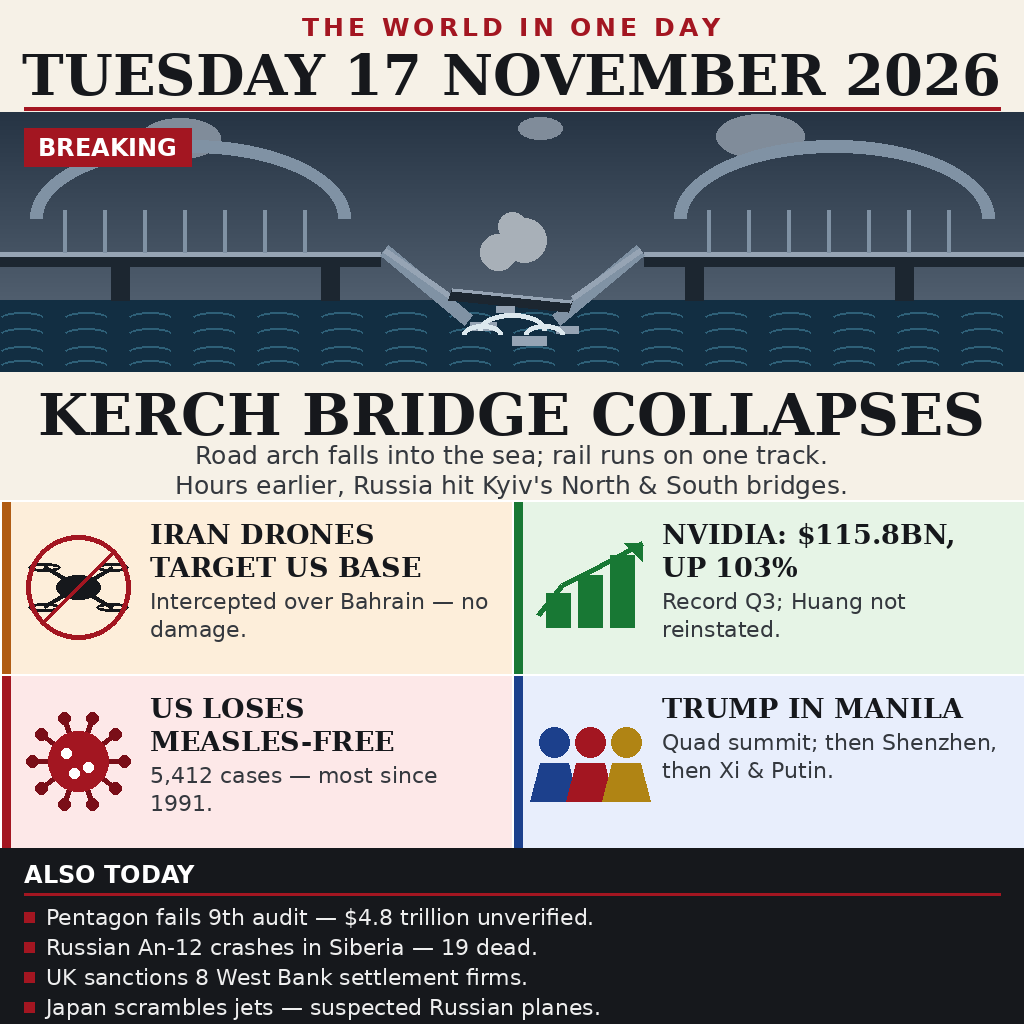
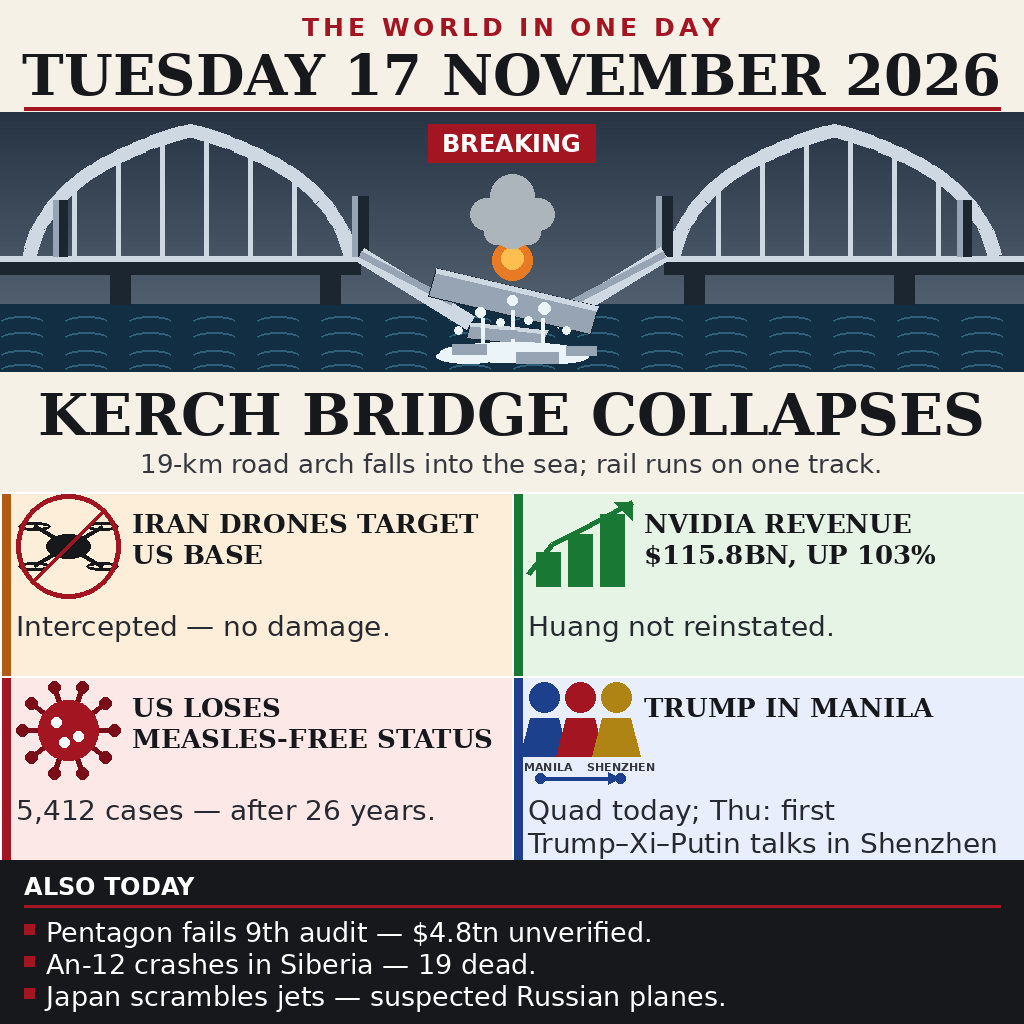
R2: redraw hero as collapsed bridge, legible subs, Trump rewrite
- Hero: tall pointed near-white arches (was shallow grey domes),
  end posts + piers + broken stub towers, wider gap, much bigger
  tilted falling deck fragment, foam + spray splash, one clear
  smoke plume, BREAKING centred over the gap (was hitting the arch)
- Panels: subs cut to one short line at 28px (was 22px, 2 lines);
  hero sub now one line incl. 19-km; Kyiv line dropped for words
- Trump: 'Quad today; Thu: first Trump-Xi-Putin talks in Shenzhen'
  + Manila->Shenzhen route arrow on the pictogram
- Nvidia headline now labels REVENUE; 'Record Q3' removed
- Measles sub now carries 'after 26 years'
- ALSO TODAY 4 -> 3 items (UK sanctions cut) at 27px
- Words ~99 -> 83

diff --git a/tools/render.py b/tools/render.py
@@ -1,12 +1,19 @@
 #!/usr/bin/env python3
 """Render the news-image-20261117 poster (1024x1024, deterministic, PIL only).
 
+R2 revision of the R1 poster ("The World in One Day", Tuesday 17 Nov 2026).
+Changes vs R1 (see BUILD-R2.md): hero redrawn (tall pointed white arches,
+towers/piers, much bigger falling deck + splash, one clear smoke plume,
+BREAKING moved over the gap); panel subs cut to one short line at 28px;
+Trump panel rewritten (Thu trilateral + Manila->Shenzhen route arrow);
+ALSO TODAY cut 4 -> 3 items at 27px; word count ~99 -> 83.
+
 Layout (1024x1024):
   masthead  0-112    "THE WORLD IN ONE DAY" + TUESDAY 17 NOVEMBER 2026
   hero img  112-372  procedural Kerch Bridge collapse scene
-  hero text 372-500  headline + 2 sub-caption lines
-  grid      500-848  2x2 story panels (Iran / Nvidia / Measles / Trump)
-  strip     848-1024 ALSO TODAY, 4 one-line items
+  hero text 372-492  headline + ONE sub-caption line (19-km)
+  grid      492-860  2x2 story panels (Iran / Nvidia / Measles / Trump)
+  strip     860-1024 ALSO TODAY, 3 one-line items
 
 All facts checked against RESEARCH.md. No randomness, no time, no network.
 """
@@ -26,7 +33,11 @@ SKY_BOT = (96, 110, 126)
 SEA = (18, 46, 66)
 SEA_LT = (46, 96, 120)
 STEEL = (28, 38, 48)
-STEEL_LT = (70, 84, 98)
+ARCH = (206, 216, 226)          # near-white: the real Kerch arches are white
+ARCH_DK = (150, 164, 180)
+ORANGE = (232, 122, 36)
+YELLOW = (255, 190, 80)
+SMOKE = (172, 180, 188)
 
 
 def font(name, size):
@@ -83,6 +94,39 @@ def vgrad(draw, box, top, bot):
         draw.line([(x0, y0 + i), (x1, y0 + i)], fill=c)
 
 
+def bezier(p0, p1, p2, n=28):
+    """Quadratic Bezier sample points."""
+    pts = []
+    for i in range(n + 1):
+        t = i / n
+        x = (1 - t) ** 2 * p0[0] + 2 * (1 - t) * t * p1[0] + t * t * p2[0]
+        y = (1 - t) ** 2 * p0[1] + 2 * (1 - t) * t * p1[1] + t * t * p2[1]
+        pts.append((x, y))
+    return pts
+
+
+def pointed_arch_points(x0, x1, base_y, apex_y):
+    """Tall pointed (Gothic-style) arch: two steep Bezier halves meeting
+    in a cusp at the apex. Returns the full polyline, left to right."""
+    ax = (x0 + x1) / 2.0
+    span = x1 - x0
+    h = base_y - apex_y
+    left = bezier((x0, base_y), (x0 + 0.06 * span, apex_y + 0.30 * h),
+                  (ax, apex_y))
+    right = bezier((ax, apex_y), (x1 - 0.06 * span, apex_y + 0.30 * h),
+                   (x1, base_y))
+    return left + right[1:]
+
+
+def arch_y_at(pts, x):
+    """Interpolate arch height at x from sampled polyline points."""
+    for (x1, y1), (x2, y2) in zip(pts, pts[1:]):
+        if x1 <= x <= x2 and x2 != x1:
+            t = (x - x1) / (x2 - x1)
+            return y1 + t * (y2 - y1)
+    return pts[-1][1]
+
+
 # ---------------------------------------------------------------- masthead
 def draw_masthead(d):
     d.rectangle([0, 0, W, 112], fill=PAPER)
@@ -101,89 +145,108 @@ def draw_masthead(d):
 def draw_hero_art(d):
     x0, y0, x1, y1 = 0, 112, W, 372
     vgrad(d, (x0, y0, x1, y1), SKY_TOP, SKY_BOT)
-    # faint clouds, kept small and high so they never touch the bridge
-    for cx, cy, r in [(180, 138, 40), (760, 136, 44), (540, 128, 22)]:
-        d.ellipse([cx - r, cy - r // 2, cx + r, cy + r // 2],
-                  fill=(128, 140, 154))
     # sea
-    d.rectangle([x0, 300, x1, y1], fill=SEA)
-    for wy in (312, 328, 346, 360):
+    d.rectangle([x0, 304, x1, y1], fill=SEA)
+    for wy in (316, 332, 350, 364):
         for sx in range(0, W, 64):
             d.arc([sx, wy, sx + 44, wy + 12], 200, 340, fill=SEA_LT, width=2)
-    # bridge deck (road) across the whole width, with a GAP in the middle
-    deck_y = 252
-    d.rectangle([0, deck_y, 380, deck_y + 14], fill=STEEL)
-    d.rectangle([644, deck_y, W, deck_y + 14], fill=STEEL)
-    d.rectangle([0, deck_y, 380, deck_y + 4], fill=(150, 164, 180))
-    d.rectangle([644, deck_y, W, deck_y + 4], fill=(150, 164, 180))
-    # piers
-    for px in (120, 330, 694, 904):
-        d.rectangle([px - 9, deck_y + 14, px + 9, 300], fill=STEEL)
-    # standing arches: left span and right span, bold and bright
+    deck_y = 256
+    # --- standing spans: tall pointed white arches + hangers + deck ---
+    arches = []
     for ax0, ax1 in ((30, 350), (674, 994)):
-        d.arc([ax0, deck_y - 112, ax1, deck_y + 44], 180, 360,
-              fill=(128, 146, 164), width=13)
-        for vx in range(ax0 + 34, ax1 - 24, 40):
-            d.line([(vx, deck_y - 42), (vx, deck_y)], fill=(128, 146, 164),
-                   width=4)
-    # COLLAPSED middle span: broken arch halves plunging into the sea,
-    # plus a tilted deck fragment falling between them
-    d.line([(384, deck_y - 2), (468, 320)], fill=(128, 146, 164), width=13)
-    d.line([(640, deck_y - 2), (556, 320)], fill=(128, 146, 164), width=13)
-    d.line([(384, deck_y - 2), (452, 298)], fill=(150, 164, 180), width=6)
-    d.line([(640, deck_y - 2), (572, 298)], fill=(150, 164, 180), width=6)
-    # tilted falling deck fragment
-    d.polygon([(452, 288), (572, 300), (568, 312), (448, 300)],
-              fill=STEEL)
-    d.polygon([(452, 288), (572, 300), (570, 303), (452, 291)],
-              fill=(150, 164, 180))
-    # falling debris
-    for dx, dy, dw, dh in [(470, 322, 26, 8), (512, 336, 34, 9),
-                           (556, 326, 22, 7), (496, 306, 18, 6)]:
-        d.rectangle([dx, dy, dx + dw, dy + dh], fill=(150, 164, 180))
-    # splash at impact
-    for sx, sy, r in [(512, 330, 34), (482, 334, 20), (544, 334, 20)]:
-        d.arc([sx - r, sy - r // 2, sx + r, sy + r // 2], 180, 360,
-              fill=(220, 232, 238), width=5)
-    # smoke above the break
-    for cx, cy, r in [(498, 252, 18), (524, 240, 22), (512, 226, 14)]:
-        d.ellipse([cx - r, cy - r, cx + r, cy + r], fill=(168, 176, 184))
-    # BREAKING tag
+        pts = pointed_arch_points(ax0, ax1, deck_y, 130)
+        arches.append(pts)
+        d.line(pts, fill=ARCH, width=14, joint="curve")
+        for vx in range(ax0 + 44, ax1 - 30, 44):
+            ay = arch_y_at(pts, vx)
+            if ay < deck_y - 6:
+                d.line([(vx, ay), (vx, deck_y)], fill=ARCH, width=5)
+    # --- deck (road), thicker, with a WIDE gap in the middle ---
+    d.rectangle([0, deck_y, 360, deck_y + 18], fill=STEEL)
+    d.rectangle([664, deck_y, W, deck_y + 18], fill=STEEL)
+    d.rectangle([0, deck_y, 360, deck_y + 5], fill=ARCH)
+    d.rectangle([664, deck_y, W, deck_y + 5], fill=ARCH)
+    # --- verticals: end portal posts + piers into the sea ---
+    for px in (60, 964):
+        d.rectangle([px - 7, 200, px + 7, deck_y], fill=STEEL)
+        d.rectangle([px - 7, 200, px - 2, deck_y], fill=ARCH_DK)
+    for px in (120, 330, 694, 904):
+        d.rectangle([px - 10, deck_y + 18, px + 10, 304], fill=STEEL)
+    # --- broken stub towers framing the gap (remains of the lost span) ---
+    for px in (360, 664):
+        d.rectangle([px - 8, 196, px + 8, deck_y], fill=STEEL)
+        d.rectangle([px - 8, 196, px - 3, deck_y], fill=ARCH_DK)
+    # --- COLLAPSED middle span: broken arch stubs plunging into the sea ---
+    d.line([(360, deck_y - 2), (470, 322)], fill=ARCH, width=16)
+    d.line([(664, deck_y - 2), (554, 322)], fill=ARCH, width=16)
+    d.line([(360, deck_y - 2), (452, 302)], fill=ARCH_DK, width=7)
+    d.line([(664, deck_y - 2), (572, 302)], fill=ARCH_DK, width=7)
+    # --- explosion burst where the arch broke ---
+    d.ellipse([512 - 20, 240, 512 + 20, 280], fill=ORANGE)
+    d.ellipse([512 - 11, 247, 512 + 11, 269], fill=YELLOW)
+    # --- one clear smoke plume above the break (not scattered stains) ---
+    for cx, cy, r in [(486, 214, 16), (512, 196, 22), (538, 214, 16),
+                      (512, 228, 20), (496, 232, 12), (528, 232, 12)]:
+        d.ellipse([cx - r, cy - r, cx + r, cy + r], fill=SMOKE)
+    # --- LARGE tilted falling deck fragment + a second fragment ---
+    # Lighter steel than the sea, steeply tilted so it reads as falling,
+    # not as a boat: dark outline, pale top edge.
+    d.polygon([(436, 268), (598, 306), (590, 334), (428, 296)],
+              fill=ARCH_DK, outline=STEEL)
+    d.polygon([(436, 268), (598, 306), (596, 311), (436, 273)], fill=ARCH)
+    d.polygon([(470, 322), (548, 330), (542, 346), (466, 338)],
+              fill=ARCH_DK, outline=STEEL)
+    d.polygon([(470, 322), (548, 330), (546, 334), (470, 326)], fill=ARCH)
+    # --- BIG white splash: foam band + vertical spray jets at impact ---
+    for sx, sy, rx, ry in [(512, 352, 72, 10), (468, 356, 32, 7),
+                           (556, 356, 32, 7)]:
+        d.ellipse([sx - rx, sy - ry, sx + rx, sy + ry],
+                  fill=(235, 244, 248))
+    for sx, y1, y2 in [(482, 318, 342), (512, 310, 342), (542, 318, 342)]:
+        d.line([(sx, y1), (sx, y2)], fill=(235, 244, 248), width=4)
+    for sx, sy, r in [(480, 312, 5), (544, 308, 6), (512, 300, 5),
+                      (500, 322, 4), (528, 320, 4), (458, 330, 4),
+                      (566, 330, 4)]:
+        d.ellipse([sx - r, sy - r, sx + r, sy + r], fill=(235, 244, 248))
+    # --- falling debris, bigger ---
+    for dx, dy, dw, dh in [(452, 344, 34, 10), (516, 352, 42, 11),
+                           (566, 346, 30, 9), (492, 330, 24, 8)]:
+        d.rectangle([dx, dy, dx + dw, dy + dh], fill=ARCH_DK)
+    # --- BREAKING tag: centred over the gap, clear of both arches ---
     tag = "BREAKING"
     tf = font(SANS_B, 24)
     tw = d.textlength(tag, font=tf) + 28
-    d.rectangle([24, 128, 24 + tw, 166], fill=RED)
-    d.text((38, 133), tag, font=tf, fill=(255, 255, 255))
+    tx0 = int((W - tw) // 2)
+    d.rectangle([tx0, 124, tx0 + tw, 162], fill=RED)
+    d.text((tx0 + 14, 129), tag, font=tf, fill=(255, 255, 255))
 
 
 def draw_hero_text(d):
-    d.rectangle([0, 372, W, 500], fill=PAPER)
+    d.rectangle([0, 372, W, 492], fill=PAPER)
     hf = fit_font(d, "KERCH BRIDGE COLLAPSES", SERIF_B, 58, 980)
     hw = d.textlength("KERCH BRIDGE COLLAPSES", font=hf)
     d.text(((W - hw) // 2, 380), "KERCH BRIDGE COLLAPSES", font=hf, fill=INK)
-    sf = font(SANS, 25)
-    # two sub-caption lines at y=440 and y=470
-    for i, line in enumerate([
-            "Road arch falls into the sea; rail runs on one track.",
-            "Hours earlier, Russia hit Kyiv's North & South bridges."]):
-        lw = d.textlength(line, font=sf)
-        d.text(((W - lw) // 2, 440 + i * 30), line, font=sf, fill=(52, 56, 62))
+    sf = font(SANS, 26)
+    line = "19-km road arch falls into the sea; rail runs on one track."
+    lw = d.textlength(line, font=sf)
+    d.text(((W - lw) // 2, 448), line, font=sf, fill=(52, 56, 62))
 
 
 # ---------------------------------------------------------------- panels
 PANELS = [
     dict(bg=(253, 238, 218), accent=(176, 92, 20), icon="drone",
          head="IRAN DRONES TARGET US BASE",
-         sub="Intercepted over Bahrain \u2014 no damage."),
+         sub="Intercepted \u2014 no damage."),
     dict(bg=(230, 244, 230), accent=(24, 120, 52), icon="chart",
-         head="NVIDIA: $115.8BN, UP 103%",
-         sub="Record Q3; Huang not reinstated."),
+         head="NVIDIA REVENUE $115.8BN, UP 103%",
+         sub="Huang not reinstated."),
     dict(bg=(253, 232, 232), accent=(163, 22, 33), icon="virus",
          head="US LOSES MEASLES-FREE STATUS",
-         sub="5,412 cases \u2014 most since 1991."),
+         sub="5,412 cases \u2014 after 26 years."),
     dict(bg=(232, 238, 252), accent=(28, 64, 140), icon="heads",
          head="TRUMP IN MANILA",
-         sub="Quad summit; then Shenzhen, then Xi & Putin."),
+         sub="Quad today; Thu: first Trump\u2013Xi\u2013Putin talks in Shenzhen",
+         route=True),
 ]
 
 
@@ -222,13 +285,31 @@ def icon_virus(d, cx, cy):
                   fill=(255, 255, 255))
 
 
-def icon_heads(d, cx, cy):
+def icon_heads(d, cx, cy, route=False):
     cols = [(28, 64, 140), (163, 22, 33), (176, 132, 20)]
     for i, c in enumerate(cols):
         hx = cx - 36 + i * 36
         d.ellipse([hx - 15, cy - 34, hx + 15, cy - 4], fill=c)
         d.polygon([(hx - 24, cy + 40), (hx + 24, cy + 40),
                    (hx + 14, cy + 2), (hx - 14, cy + 2)], fill=c)
+    if route:
+        # Manila -> Shenzhen route arrow under the three heads.
+        # Labels sit above the dots (clear of the heads' shoulders);
+        # dots + arrow sit below, clear of the panel sub-caption.
+        # Dots are 80px apart and labels are 11px so MANILA and
+        # SHENZHEN read as two separate labels, not one phrase.
+        lf = font(SANS_B, 11)
+        blue = (28, 64, 140)
+        d.text((cx - 56, cy + 44), "MANILA", font=lf, fill=(52, 56, 62))
+        sw = d.textlength("SHENZHEN", font=lf)
+        d.text((cx + 40 - sw // 2, cy + 44), "SHENZHEN", font=lf,
+               fill=(52, 56, 62))
+        ay = cy + 62
+        d.line([(cx - 34, ay), (cx + 32, ay)], fill=blue, width=4)
+        d.polygon([(cx + 40, ay), (cx + 28, ay - 6), (cx + 28, ay + 6)],
+                  fill=blue)
+        for dx in (cx - 40, cx + 40):
+            d.ellipse([dx - 5, ay - 5, dx + 5, ay + 5], fill=blue)
 
 
 ICONS = {"drone": icon_drone, "chart": icon_chart,
@@ -237,46 +318,53 @@ ICONS = {"drone": icon_drone, "chart": icon_chart,
 
 def draw_grid(d):
     for i, p in enumerate(PANELS):
-        px, py = (i % 2) * 512, 500 + (i // 2) * 174
-        d.rectangle([px, py, px + 512, py + 174], fill=p["bg"])
-        d.rectangle([px, py, px + 10, py + 174], fill=p["accent"])
+        px, py = (i % 2) * 512, 492 + (i // 2) * 184
+        d.rectangle([px, py, px + 512, py + 184], fill=p["bg"])
+        d.rectangle([px, py, px + 10, py + 184], fill=p["accent"])
         d.line([(px, py), (px + 512, py)], fill=(255, 255, 255), width=2)
-        d.line([(px, py), (px, py + 174)], fill=(255, 255, 255), width=2)
-        ICONS[p["icon"]](d, px + 78, py + 87)
-        tx = px + 150
-        maxw = 512 - 150 - 16
-        hf = font(SERIF_B, 27)
-        lines = wrap(d, p["head"], hf, maxw)
-        y = py + 18
-        for ln in lines[:2]:
+        d.line([(px, py), (px, py + 184)], fill=(255, 255, 255), width=2)
+        # icon top-left; Trump heads sit higher to leave room for the
+        # route arrow underneath them
+        icy = py + 40 if p.get("route") else py + 54
+        if p.get("route"):
+            ICONS[p["icon"]](d, px + 68, icy, route=True)
+        else:
+            ICONS[p["icon"]](d, px + 68, icy)
+        # headline right of the icon, up to 2 lines at 26px
+        tx = px + 132
+        maxw = 512 - 132 - 14
+        hf = font(SERIF_B, 26)
+        y = py + 16
+        for ln in wrap(d, p["head"], hf, maxw)[:2]:
             d.text((tx, y), ln, font=hf, fill=INK)
+            y += 31
+        # sub-caption: full panel width, 28px, up to 2 lines
+        sf = font(SANS, 28)
+        y = py + 118
+        for ln in wrap(d, p["sub"], sf, 480)[:2]:
+            d.text((px + 16, y), ln, font=sf, fill=(38, 42, 48))
             y += 33
-        sf = font(SANS, 22)
-        for ln in wrap(d, p["sub"], sf, maxw)[:2]:
-            d.text((tx, y + 4), ln, font=sf, fill=(52, 56, 62))
-            y += 28
 
 
 # ---------------------------------------------------------------- strip
 ALSO = [
-    "Pentagon fails 9th audit \u2014 $4.8 trillion unverified.",
-    "Russian An-12 crashes in Siberia \u2014 19 dead.",
-    "UK sanctions 8 West Bank settlement firms.",
+    "Pentagon fails 9th audit \u2014 $4.8tn unverified.",
+    "An-12 crashes in Siberia \u2014 19 dead.",
     "Japan scrambles jets \u2014 suspected Russian planes.",
 ]
 
 
 def draw_strip(d):
-    d.rectangle([0, 848, W, H], fill=INK)
+    d.rectangle([0, 860, W, H], fill=INK)
     lf = font(SANS_B, 24)
-    d.text((24, 860), "ALSO TODAY", font=lf, fill=(255, 255, 255))
-    d.line([(24, 894), (W - 24, 894)], fill=RED, width=3)
-    sf = font(SANS, 22)
-    y = 904
+    d.text((24, 872), "ALSO TODAY", font=lf, fill=(255, 255, 255))
+    d.line([(24, 906), (W - 24, 906)], fill=RED, width=3)
+    sf = font(SANS, 27)
+    y = 916
     for item in ALSO:
         d.rectangle([24, y + 8, 34, y + 18], fill=RED)
-        d.text((46, y), item, font=sf, fill=(238, 238, 238))
-        y += 30
+        d.text((46, y), item, font=sf, fill=(255, 255, 255))
+        y += 32
 
 
 def main():
